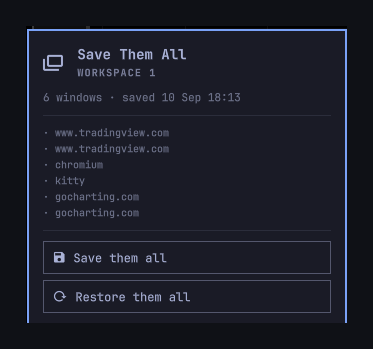
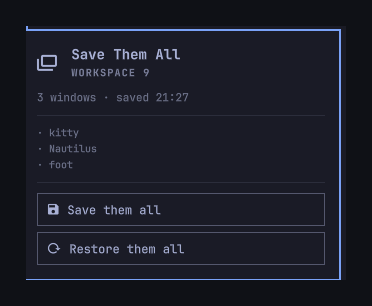
Read reverse-DNS window classes as names, and a fresh screenshot
A window class is an address, not a name. Webapp classes were already
reduced to their host; do the same for reverse-DNS classes, where the
name lives in the last segment, so the panel lists "Nautilus" rather
than "org.gnome.Nautilus".

Also document that a terminal reopens through Omarchy's launcher: that
is what picks a herdr or tmux session back up, and it is also why a
terminal that was running something else comes back empty.

Claude-Session: https://claude.ai/code/session_013A1dpJ2bYTmjEtSN29Pxgi

Changed region(s): [[0.0591, 0.0588, 0.9462, 0.9412]]

diff --git a/Panel.qml b/Panel.qml
@@ -62,12 +62,16 @@ Panel {
     return url.indexOf("file://") === 0 ? decodeURIComponent(url.substring(7)) : url
   }
 
-  // Chromium names a webapp window after its URL: chrome-host__some_path-Default.
-  // The host alone is what a person recognises in a list.
+  // Window classes are addresses, not names. Chromium names a webapp window
+  // after its URL (chrome-host__some_path-Default), where the host is the part
+  // a person recognises; a reverse-DNS class (org.gnome.Nautilus) carries its
+  // name in the last segment. Anything else is already as readable as it gets.
   function prettyClass(cls) {
     var name = String(cls || "")
     var webapp = name.match(/^chrome-([^_]+)__.*-Default$/)
     if (webapp) return webapp[1]
+    var parts = name.split(".")
+    if (parts.length >= 3 && parts[parts.length - 1] !== "") return parts[parts.length - 1]
     return name
   }
 

diff --git a/README.md b/README.md
@@ -119,6 +119,9 @@ on `jq`, `python3` and `pstree`, all of which ship with Omarchy.
   session restore to settle first.
 - **Apps are matched by window class and count.** Two windows of the same app
   are told apart by their position in the saved order, not by their content.
+- **A terminal comes back as a terminal.** It reopens through Omarchy's own
+  launcher so a `herdr` or `tmux` session is picked up again, which also means
+  a terminal that was running something else starts empty.
 
 ## Remove
 
